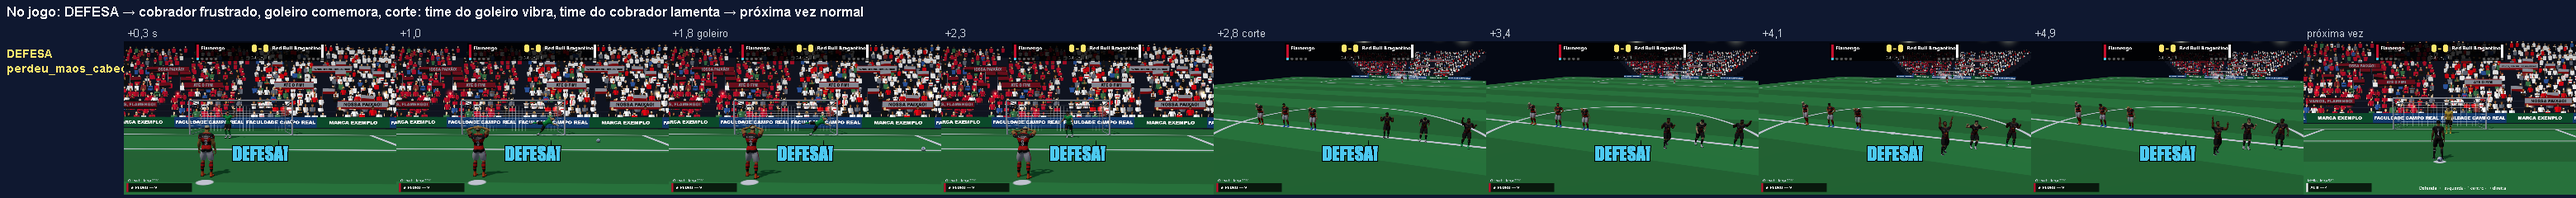
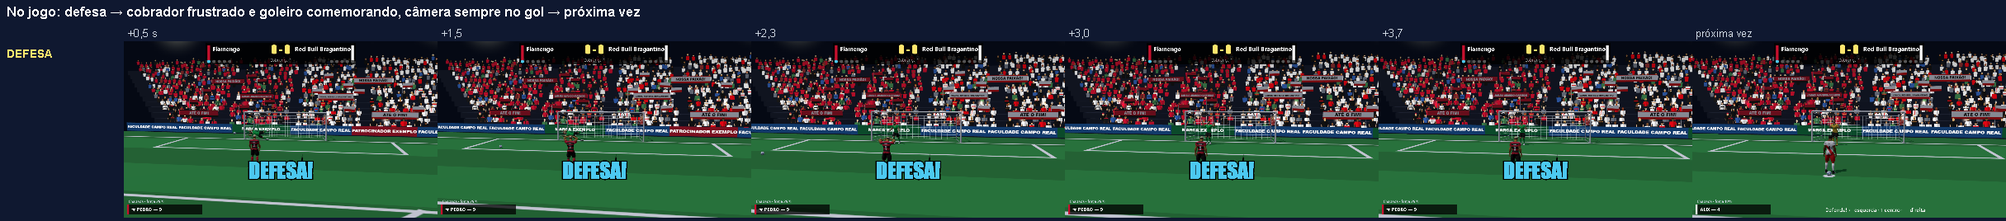
Remove a cena dos times comemorando no meio de campo
A câmera não corta mais para o círculo central e não há jogadores de linha em
cena durante a disputa; o cobrador e o goleiro continuam reagindo (o goleiro
comemora a defesa/erro ou lamenta o gol). Espera depois do resultado: 4,0 s.

diff --git a/js/frame.js b/js/frame.js
@@ -5,7 +5,7 @@ import { pickKicker, keeperOf } from './players.js';
 import { lerp } from './vec.js';
 import { kickerPose, keeperPose, cheerPose, dejectedPose, goalToWorld, BALL0, BALL_R, SPOT_Z, KICK_T0, CLIP_END, GOAL_W, sm } from './rig.js';
 import { faceOf, SKINS, HAIRC } from './face.js';
-import { clipStart, clipEnd, ENTRY_S, KEEPER_REACT_D, TEAM_SHOT, CENTER_Z, benefited, KEEPER_CHEER, KEEPER_SAD, TEAM_CHEER, TEAM_SAD } from './kicks.js';
+import { clipStart, clipEnd, ENTRY_S, KEEPER_REACT_D, KEEPER_CHEER, KEEPER_SAD } from './kicks.js';
 // MÁQUINA DE ESTADOS do cobrador: entering (clipe de entrada: caminha e para no ponto de partida) → idle (clipe de repouso) → charging (segurando a barra:
 // o repouso se mistura à pose inicial da cobrança) → runUp → kick (do plantio ao contato) → followThrough → recovery (fim do clipe) →
 // goalCelebration (só se o resultado CONFIRMADO for gol) ou missReaction (defesa, trave ou fora). O estado é função do tempo e do resultado: não se
@@ -41,7 +41,6 @@ export function ballWorld(b, k) {
 }
 export function camTarget(game, b, bw, res, d) {
   if (game.fin) return { pos: [0, 2.3, 15], tgt: [0, 1.4, 4], fov: 38 };
-  if (b && res && d >= TEAM_SHOT[0] && d < TEAM_SHOT[1]) { const sx = benefited(res, GS.cobrador) === 0 ? -1 : 1; return { pos: [4.5*sx, 4.6, CENTER_Z + 13], tgt: [.8*sx, .95, CENTER_Z - .5], fov: 40, cut: 'times' }; }   // câmera do lado do time que vibra   // do meio-campo para o gol: o estádio e a torcida ao fundo   // CORTE: os dois times no círculo central
   if (b && res && d > 0) { const T = goalToWorld(b.gx, b.gy); return { pos: [T[0]*.3 + 1.2, 2.7, 19.5], tgt: [T[0]*.5, 1.2, 0], fov: 31 }; }                // gol / defesa: aproxima do gol e da torcida
   if (b && b.t > 0) return { pos: [bw[0]*.15, 3.1, 24], tgt: [bw[0]*.5, bw[1]*.5 + .6, Math.min(1, bw[2]*.3)], fov: 25 };                                  // acompanha a bola
   if (!b && game.t < .9) { const u = sm(game.t/.9); return { pos: lerp([5, 4.2, 29], [0, 3.3, 25], u), tgt: [0, 1.0, 1], fov: 31 - 4*u }; }                    // apresentação / preparação
@@ -60,17 +59,7 @@ const withFace = L => L.ap ? { ...L, face: faceFor(L) } : L;
 export const widthOf = lk => { const f = lk.face || faceOf((lk.nome || '') + (lk.num ?? ''), { hair: lk.hair }); return (f.build || 1)*(f.height || 1); };
 const keeperLook = (t, mood) => { const g = keeperOf(t); return g ? { ...withFace(g), mood } : { skin: t.id % 4, hair: HS[t.id % 4], nome: 'GOL', num: 1, face: faceOf('gk' + t.id), mood }; };   // goleiro do clube (nome/número/aparência próprios) ou genérico se o clube não tiver dados
 const gkKit = t => ({ c1: kcol(t), c2: '#141414', c3: '#fff', pat: 'p', sh: '#1b1b1b', keeper: true, long: true, glove: true, key: 'gk' + t.id });
-// Reação dos dois times no círculo central (só durante o corte de câmera TEAM_SHOT): 3 jogadores de cada lado da linha do meio, virados para a câmera.
-// O time beneficiado vibra (clipes de comemoração diferentes, espelhados alternadamente e desencontrados até 0,4 s); o outro mostra decepção.
-export function teamReaction(game, res, d, nk) {
-  const win = benefited(res, GS.cobrador), out = [];
-  for (const ti of [0, 1]) { const T = GS.equipes[ti], happy = ti === win, base = ti === GS.cobrador ? GS.cobranca : 0;
-    for (let i = 0; i < 3; i++) { const pool = happy ? TEAM_CHEER : TEAM_SAD, clip = pool[(i + nk + ti) % pool.length], stag = [0, .22, .4][(i + nk) % 3], x = (ti === 0 ? -1 : 1)*(2.6 + i*2.3);
-      out.push({ role: happy ? 'mate' : 'loser', P: cheerPose(0, i, [x, 0, CENTER_Z], Math.PI), state: happy ? 'teamCheer' : 'teamSad', kit: { ...T, variant: ti === 1 ? 'away' : 'home', sh: T.c2 }, look: withFace(pickKicker(T, base + 1 + i, null)),
-        anim: { clip, pe: (i + ti) % 2 ? 'l' : 'r', t: Math.max(0, d - (TEAM_SHOT[0] - .35) - stag), pos: [x, 0, CENTER_Z], yaw: 0, blend: 0 } });   /* virados para a câmera do corte */ } }
-  return out;
-}
-// Personagens do quadro: [{ role, P (pose do rig), kit, look, anim? }]. role: kicker | keeper | mate | loser
+// Personagens do quadro: [{ role, P (pose do rig), kit, look }]. role: kicker | keeper | mate | loser
 export function characters(game, now, b, k, res, d, bw) {
   const [ta, tb] = GS.equipes; if (!ta || !game.m) return null;
   if (game.fin) {                                                                                   // FIM CONFIRMADO: só o vencedor comemora; o derrotado mostra decepção
@@ -95,6 +84,5 @@ export function characters(game, now, b, k, res, d, bw) {
   const kAnim = res && d >= KEEPER_REACT_D ? { clip: (res === 'gol' ? KEEPER_SAD : KEEPER_CHEER)[nk % 3], pe: nk % 2 ? 'l' : 'r', t: d - KEEPER_REACT_D, pos: [(k.x - .5)*GOAL_W*(1 - sm((KEEPER_REACT_D - 1)/.7)), 0, .55], yaw: 0, blend: .45, state: res === 'gol' ? 'keeperSad' : 'keeperCheer' } : null;
   const list = [{ role: 'kicker', P: kickerPose(m), anim, state, kit: { ...kt, sh: kt.c2, variant: GS.cobrador === 1 ? 'away' : 'home' }, look: lk },
     { role: 'keeper', P: kp.P, anim: kAnim, kit: gkKit(dt2), look: keeperLook(dt2, kp.info.happy ? 'happy' : kp.info.sad ? 'sad' : 'neutral') }];
-  if (res && d >= TEAM_SHOT[0] - .3) list.push(...teamReaction(game, res, d, nk));
   return { final: false, list };
 }

diff --git a/js/three/engine.js b/js/three/engine.js
@@ -42,10 +42,10 @@ export async function start({ cv, base = 'assets/models/' }) {
   let renderer; try { renderer = new THREE.WebGLRenderer({ canvas: gl, antialias: true }); } catch (e) { gl.remove(); throw e; }
   renderer.shadowMap.enabled = true; renderer.shadowMap.type = THREE.PCFSoftShadowMap; const app = cv.parentNode, resize = () => { renderer.setPixelRatio(Math.min(window.devicePixelRatio || 1, 2)); renderer.setSize(app.clientWidth, app.clientHeight, false); }; window.addEventListener('resize', resize); resize();
   const scene = new THREE.Scene(), camera = new THREE.PerspectiveCamera(30, W/H, .2, 220), st = buildStadium(scene), fx = createStadiumFx(scene); DBG.fx = fx; DBG.scene = scene;
-  const field = [0, 1, 2, 3, 4, 5, 6].map(() => { const i = instantiate(tpl); i.root.visible = false; scene.add(i.root); return i; }), keeper = instantiate(tplG, { maos: 'luva' }); keeper.root.visible = false; scene.add(keeper.root);
+  const field = [0, 1, 2, 3, 4].map(() => { const i = instantiate(tpl); i.root.visible = false; scene.add(i.root); return i; }), keeper = instantiate(tplG, { maos: 'luva' }); keeper.root.visible = false; scene.add(keeper.root);
   DBG.field = field;                                                                                // só para depuração (testes no navegador)
   // 3) estado visual (câmera suavizada, tremor e reação da torcida) — igual ao motor procedural
-  let cam = { pos: [0, 3.3, 25], tgt: [0, 1, 1], fov: 27 }, cutId = null, shake = 0, last = 0, exS = [0, 0], sad = [0, 0];
+  let cam = { pos: [0, 3.3, 25], tgt: [0, 1, 1], fov: 27 }, shake = 0, last = 0, exS = [0, 0], sad = [0, 0];
   [['gol', e => { exS[e.equipe] = 1; sad[1 - e.equipe] = 1; shake = 1; fx.burst(e.equipe); }], ['defesa', e => { exS[1 - e.equipe] = .7; sad[e.equipe] = .6; shake = .5; }], ['trave', () => { exS = exS.map(v => Math.max(v, .4)); shake = .8; }], ['fora', e => { sad[e.equipe] = .5; }], ['partida_encerrada', e => { exS[e.vencedor] = 1; sad[1 - e.vencedor] = 1; fx.burst(e.vencedor); }]].forEach(([k, f]) => Events.on(k, f));
   const rng = () => Math.random() - .5, J = a => new THREE.Vector3(...a);
   function drawAim(c, aim, hold) {                                                  // mira no plano do gol, projetada pela câmera 3D
@@ -58,7 +58,6 @@ export async function start({ cv, base = 'assets/models/' }) {
   function drawScene(c, game) {
     const now = performance.now()/1000, dt = Math.min(.05, now - last || .016); last = now; exS = exS.map(v => Math.max(0, v - dt*.5)); sad = sad.map(v => Math.max(0, v - dt*.4)); shake = Math.max(0, shake - dt*2.2);
     const b = game.fin ? null : game.ball, k = game.keeper, res = b?.res, d = b ? b.t - flightTime(b) : 0, bw = ballWorld(b, k), T = camTarget(game, b, bw, res, d), f = 1 - Math.exp(-3*dt);
-    if ((T.cut || null) !== cutId) { cam = { pos: T.pos.slice(), tgt: T.tgt.slice(), fov: T.fov }; shake = 0; } cutId = T.cut || null;   // corte seco na ida e na volta (sem atravessar o campo voando)
     cam.pos = lerp(cam.pos, T.pos, f); cam.tgt = lerp(cam.tgt, T.tgt, f); cam.fov += (T.fov - cam.fov)*f; if (DBG.cam) cam = { pos: DBG.cam.pos.slice(), tgt: DBG.cam.tgt.slice(), fov: DBG.cam.fov };
     camera.fov = cam.fov; camera.updateProjectionMatrix(); camera.position.set(cam.pos[0] + (shake ? rng()*shake*.12 : 0), cam.pos[1] + (shake ? rng()*shake*.12 : 0), cam.pos[2]); camera.lookAt(J(cam.tgt));
     // personagens: o rig.js define as poses; o GLB as recebe por retargeting

diff --git a/js/kicks.js b/js/kicks.js
@@ -43,13 +43,10 @@ export const MISS_REACTIONS = { perdeu_cabeca_baixa: 2.8, perdeu_maos_cintura: 3
 export const REACTION_NAMES = { gol_bracos_abertos: 'Braços abertos', gol_punhos: 'Punhos cerrados', gol_salto: 'Pequeno salto', gol_aponta: 'Apontando para cima', gol_corrida: 'Corrida comemorativa',
   perdeu_cabeca_baixa: 'Cabeça baixa', perdeu_maos_cintura: 'Mãos na cintura', perdeu_mao_rosto: 'Mão no rosto', perdeu_maos_cabeca: 'Mãos na cabeça', perdeu_olha_chao: 'Olhar para o chão' };
 export const GOAL_S = Math.max(...Object.values(GOAL_REACTIONS)), MISS_S = Math.max(...Object.values(MISS_REACTIONS));
-// REAÇÃO COLETIVA depois de cada cobrança (d = segundos desde que a bola chegou ao gol): o goleiro se levanta e reage (comemora a defesa ou o erro do
-// cobrador; lamenta o gol), e a câmera corta para o círculo central, onde 3 jogadores de cada time esperam: o time BENEFICIADO pela cobrança (o do
-// cobrador se for gol; o do goleiro se for defesa, trave ou fora) vibra com reações variadas e desencontradas; o outro mostra decepção.
-export const KEEPER_REACT_D = 1.35, TEAM_SHOT = [2.6, 5.2], RESULT_WAIT = 5.4, CENTER_Z = 52.5;
-export const benefited = (res, cobrador) => res === 'gol' ? cobrador : 1 - cobrador;   // índice do time que vibra com o resultado da cobrança
+// Depois de cada cobrança o goleiro se levanta e reage: comemora a defesa (ou o erro do cobrador) ou lamenta o gol (js/frame.js). RESULT_WAIT: tempo
+// entre o resultado e a próxima vez, suficiente para a reação do cobrador terminar.
+export const KEEPER_REACT_D = 1.35, RESULT_WAIT = 4.0;
 export const KEEPER_CHEER = ['gol_punhos', 'gol_salto', 'gol_bracos_abertos'], KEEPER_SAD = ['perdeu_maos_cintura', 'perdeu_cabeca_baixa', 'perdeu_maos_cabeca'];
-export const TEAM_CHEER = ['gol_salto', 'gol_punhos', 'gol_aponta']   /* sem as corridas longas: ninguém invade o outro grupo */, TEAM_SAD = ['perdeu_maos_cabeca', 'perdeu_cabeca_baixa', 'perdeu_maos_cintura', 'perdeu_mao_rosto'];
 // SACOLA embaralhada: cada reação sai uma vez antes de qualquer uma repetir, e a primeira de uma sacola nova nunca é a última da anterior (sem repetição
 // imediata). Sorteada UMA vez por cobrança, quando o resultado é confirmado (game.js), e guardada na bola: o mesmo chute nunca troca de reação.
 export function reactionBag(names, rnd = Math.random) {

diff --git a/js/three/stadium.js b/js/three/stadium.js
@@ -10,7 +10,6 @@ function pitchTexture() {                                             // 80x80 m
   for (let i = 0; i < 16; i++) { g.fillStyle = i % 2 ? '#2e9446' : '#277f3b'; g.fillRect(0, i*S/16, S, S/16 + 1); }
   g.strokeStyle = '#fff'; g.lineWidth = 7; g.strokeRect(X(-34), Z(0), X(34) - X(-34), Z(64) - Z(0)); g.strokeRect(X(-20.16), Z(0), X(20.16) - X(-20.16), Z(16.5) - Z(0)); g.strokeRect(X(-9.16), Z(0), X(9.16) - X(-9.16), Z(5.5) - Z(0));
   g.beginPath(); g.arc(X(0), Z(SPOT_Z), 9.15*S/80, .62, Math.PI - .62); g.stroke(); g.fillStyle = '#fff'; g.beginPath(); g.arc(X(0), Z(SPOT_Z), 7, 0, 7); g.fill();
-  g.beginPath(); g.moveTo(X(-34), Z(52.5)); g.lineTo(X(34), Z(52.5)); g.stroke(); g.beginPath(); g.arc(X(0), Z(52.5), 9.15*S/80, 0, 7); g.stroke(); g.beginPath(); g.arc(X(0), Z(52.5), 6, 0, 7); g.fill();   // linha do meio e círculo central (onde os times esperam a disputa)
   const t = new THREE.CanvasTexture(c); t.colorSpace = THREE.SRGBColorSpace; t.anisotropy = 8; return t;
 }
 function ballTexture() {

diff --git a/js/game.js b/js/game.js
@@ -100,7 +100,7 @@ export const Game = {
     const [a, c] = m.taken, [sa, sc] = GS.placar, ra = Math.max(0, 5 - a), rc = Math.max(0, 5 - c);
     if (a <= 5 || c <= 5) m.fim = sa > sc + rc || sc > sa + ra;
     if (a > 5 || c > 5 || (a >= 5 && c >= 5)) m.fim = a === c && sa !== sc;
-    this.wait = RESULT_WAIT; this.after = true;   // reação do cobrador e do goleiro, depois o corte para os dois times no círculo central b.decisiva = m.taken[q] >= 5; GS.estado = 'RESULTADO';
+    this.wait = RESULT_WAIT; this.after = true;   // tempo para a reação do cobrador e do goleiro b.decisiva = m.taken[q] >= 5; GS.estado = 'RESULTADO';
   },
   next() {
     const m = this.m;

diff --git a/assets/models/LEIA-ME.md b/assets/models/LEIA-ME.md
@@ -37,7 +37,7 @@
   PERDEU — `perdeu_cabeca_baixa` (2,8 s), `perdeu_maos_cintura` (3,0 s: peso de uma perna para a outra), `perdeu_mao_rosto` (2,8 s: palma na testa por um instante), `perdeu_maos_cabeca` (3,0 s: cotovelos abertos), `perdeu_olha_chao` (3,0 s: vira de costas para o gol olhando o chão, respira, relaxa).
   No jogo a reação sai de uma **sacola embaralhada** (`js/kicks.js → reactionBag`): cada uma aparece uma vez antes de repetir e nunca duas seguidas; o sorteio é feito UMA vez, quando o resultado é confirmado (`b.reacao` em `js/game.js`). Os antigos `gol_r/l.glb` e `perdeu_r/l.glb` ficaram no repositório, mas não são mais carregados.
 - **Mãos e dedos (`tools/blender/bracos.py`, usado por cobranca.py, repouso.py e reacoes.py; e `js/three/retarget.js` + `js/three/hands.js` nas poses procedurais):** o modelo não tem ossos de torção, então cada braço é resolvido com o **cotovelo como dobradiça** (o antebraço é o braço girado em torno de um eixo perpendicular a ele: torção 0°) e a **mão só dobra no punho** (não gira em torno do próprio eixo). Antes, braço e antebraço eram orientados cada um sozinho e a mão "no mundo": até 159° de torção nos clipes e 179° nas poses do goleiro e do lamento, e o punho torcia como papel de bala. Dedos: cada falange flexiona no seu eixo de repouso (perpendicular ao dedo e à palma) e o polegar fecha atravessando a palma; poses `relaxada`, `punho`, `aponta`, `aberta`, `apoio` (mão pousada) e `luva` (goleiro). Nos gestos de contato, se alguma junta de dedo ficar a menos de 1 cm da pele da cabeça (vértices rígidos do osso Head), o alvo do punho é empurrado para fora pela normal e o empurrão é suavizado no tempo. `test_kicks.mjs` mede a torção nas trilhas de todos os clipes e `test_retarget.mjs` nas 77 poses procedurais. Gestos com a PALMA virada (mãos na cabeça, mão no rosto, mãos na cintura, mão no peito): `arm_hand` procura a pronação do antebraço que vira a palma para o que a mão toca e a divide entre cotovelo e punho (≤ ~46° cada) — sem isso as mãos "na cabeça" ficavam viradas para a frente, em pose de rendição. Mãos na cabeça: palmas no topo e atrás da cabeça, dedos entrelaçados, cotovelos abertos. Punho cerrado: o polegar pousa sobre o indicador e o médio fechados (pose resolvida por busca na geometria do esqueleto; antes ficava esticado para o lado).
-- **Reação coletiva (`js/frame.js → teamReaction`, `js/kicks.js`):** depois de cada cobrança o goleiro se levanta e comemora a defesa/erro (ou lamenta o gol) com clipes do Blender; aos 2,6 s a câmera corta para o círculo central, onde 3 jogadores de cada time esperam: o time BENEFICIADO pelo resultado (o do cobrador no gol; o do goleiro na defesa, trave ou fora) vibra com comemorações diferentes, espelhadas e desencontradas, e o outro mostra decepção; aos 5,2 s volta ao gol e a vez seguinte começa normalmente.
+- **Goleiro (`js/frame.js`, `js/kicks.js`):** depois de cada cobrança ele se levanta e comemora a defesa ou o erro do cobrador (ou lamenta o gol) com os clipes do Blender. Durante a disputa não há outros jogadores em cena.
 - **Repouso do cobrador (`repouso_r.glb`, `repouso_l.glb`):** laço de 6,4 s gerado por `tools/blender/repouso.py` (`"…/blender.exe" -b --factory-startup --python-exit-code 1 -P tools/blender/repouso.py -- assets/models/athlete.glb assets/models/anim .claude/skills`):
   respiração (coluna e clavículas), transferência de peso com o joelho da perna descarregada flexionando, giros discretos de quadril e ombros, cabeça alternando bola e gol, braços soltos com cotovelo levemente flexionado, mão na cintura por ~2,6 s (IK analítico: punho na linha do cinto, cotovelo para fora), punhos e dedos relaxados; pés travados (0 mm). O canhoto é o espelho exato.
   No jogo (`js/frame.js → kickerState`): walkin → **idle** (este laço, com fase própria por atleta) → **charging** (segurando a barra: o repouso se mistura em 0,45 s à pose do 1º quadro da cobrança) → runUp → kick → followThrough → recovery → goalCelebration / missReaction (o clipe sorteado). Cada clipe tem o seu `AnimationMixer` e só um escreve nos ossos por vez (`js/three/mixerUtil.js` força a escrita: o three pularia valores "repetidos").
